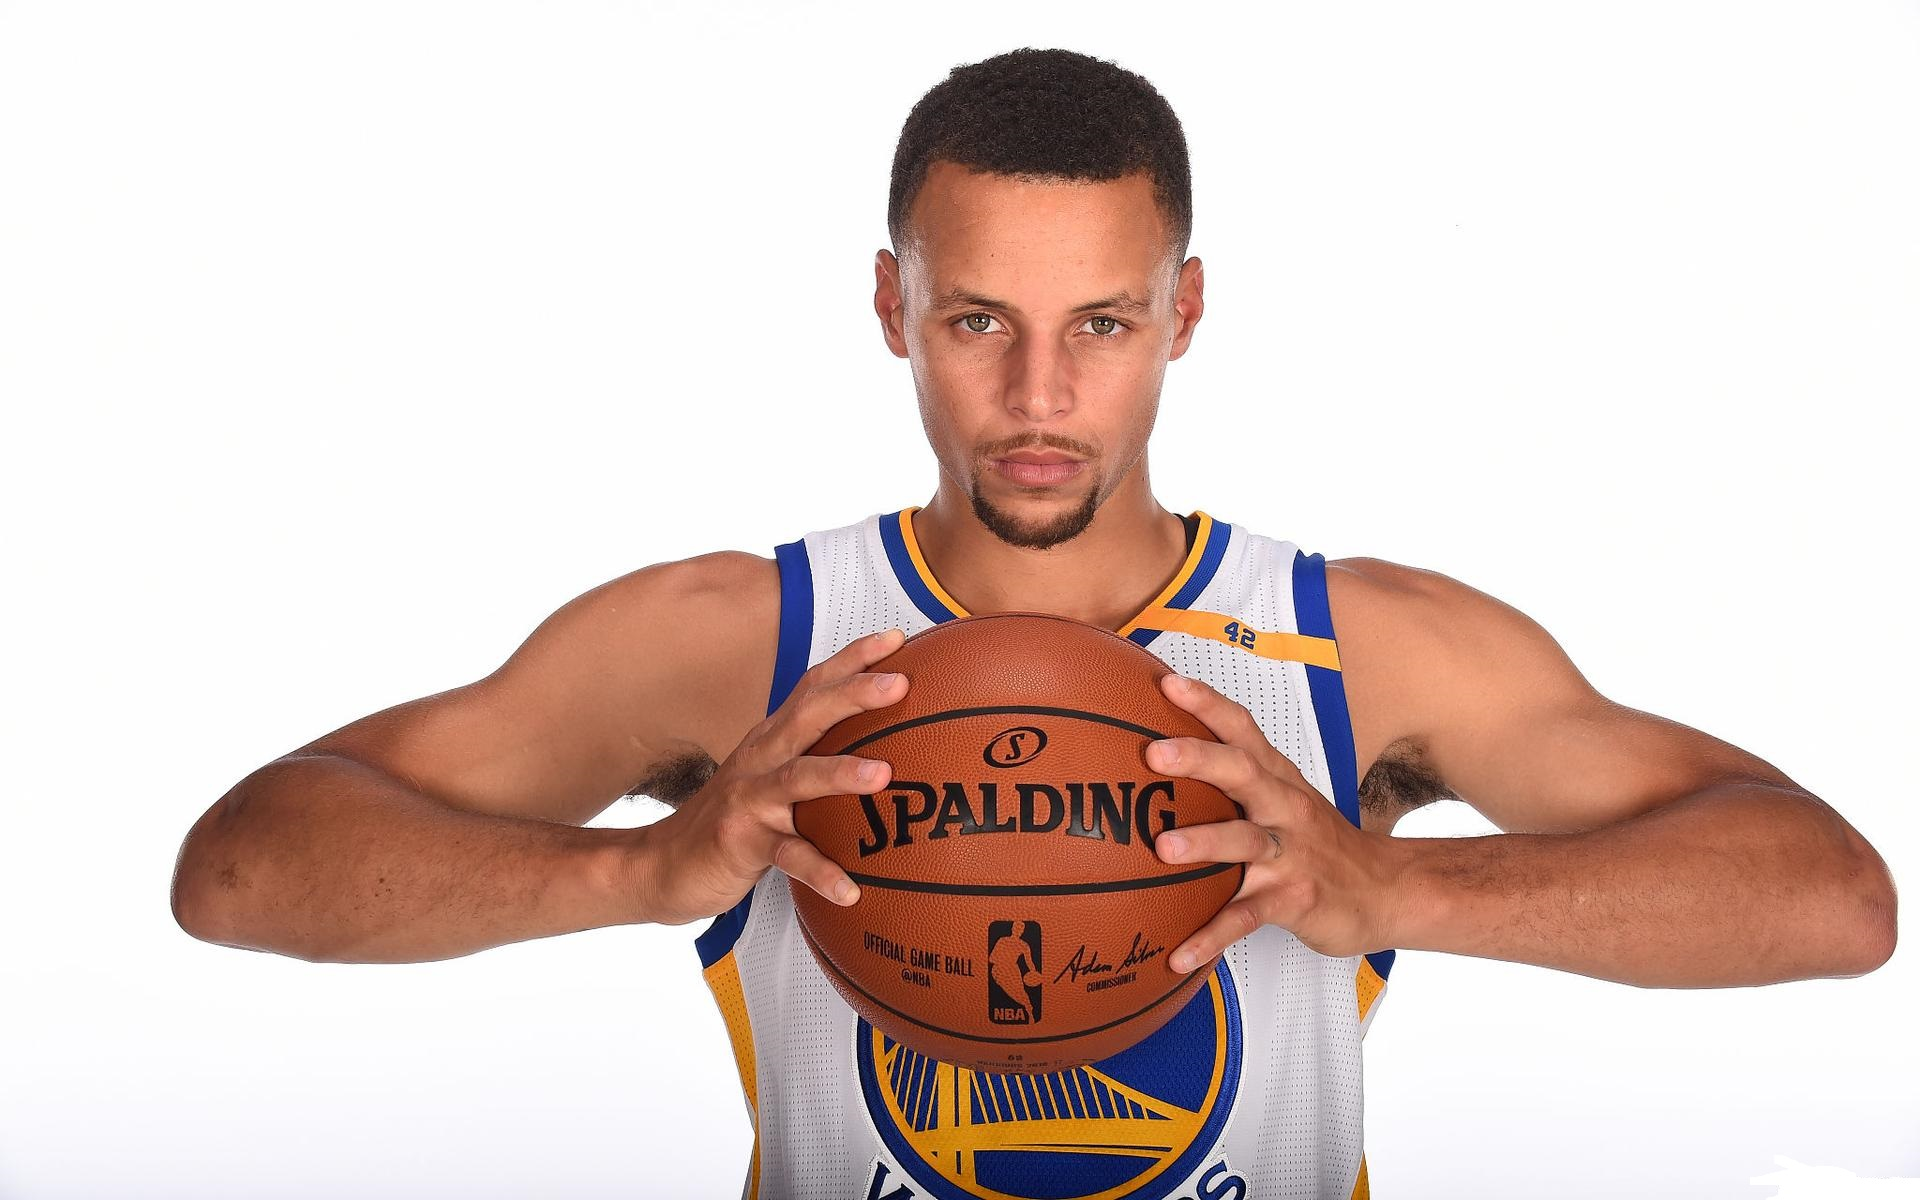
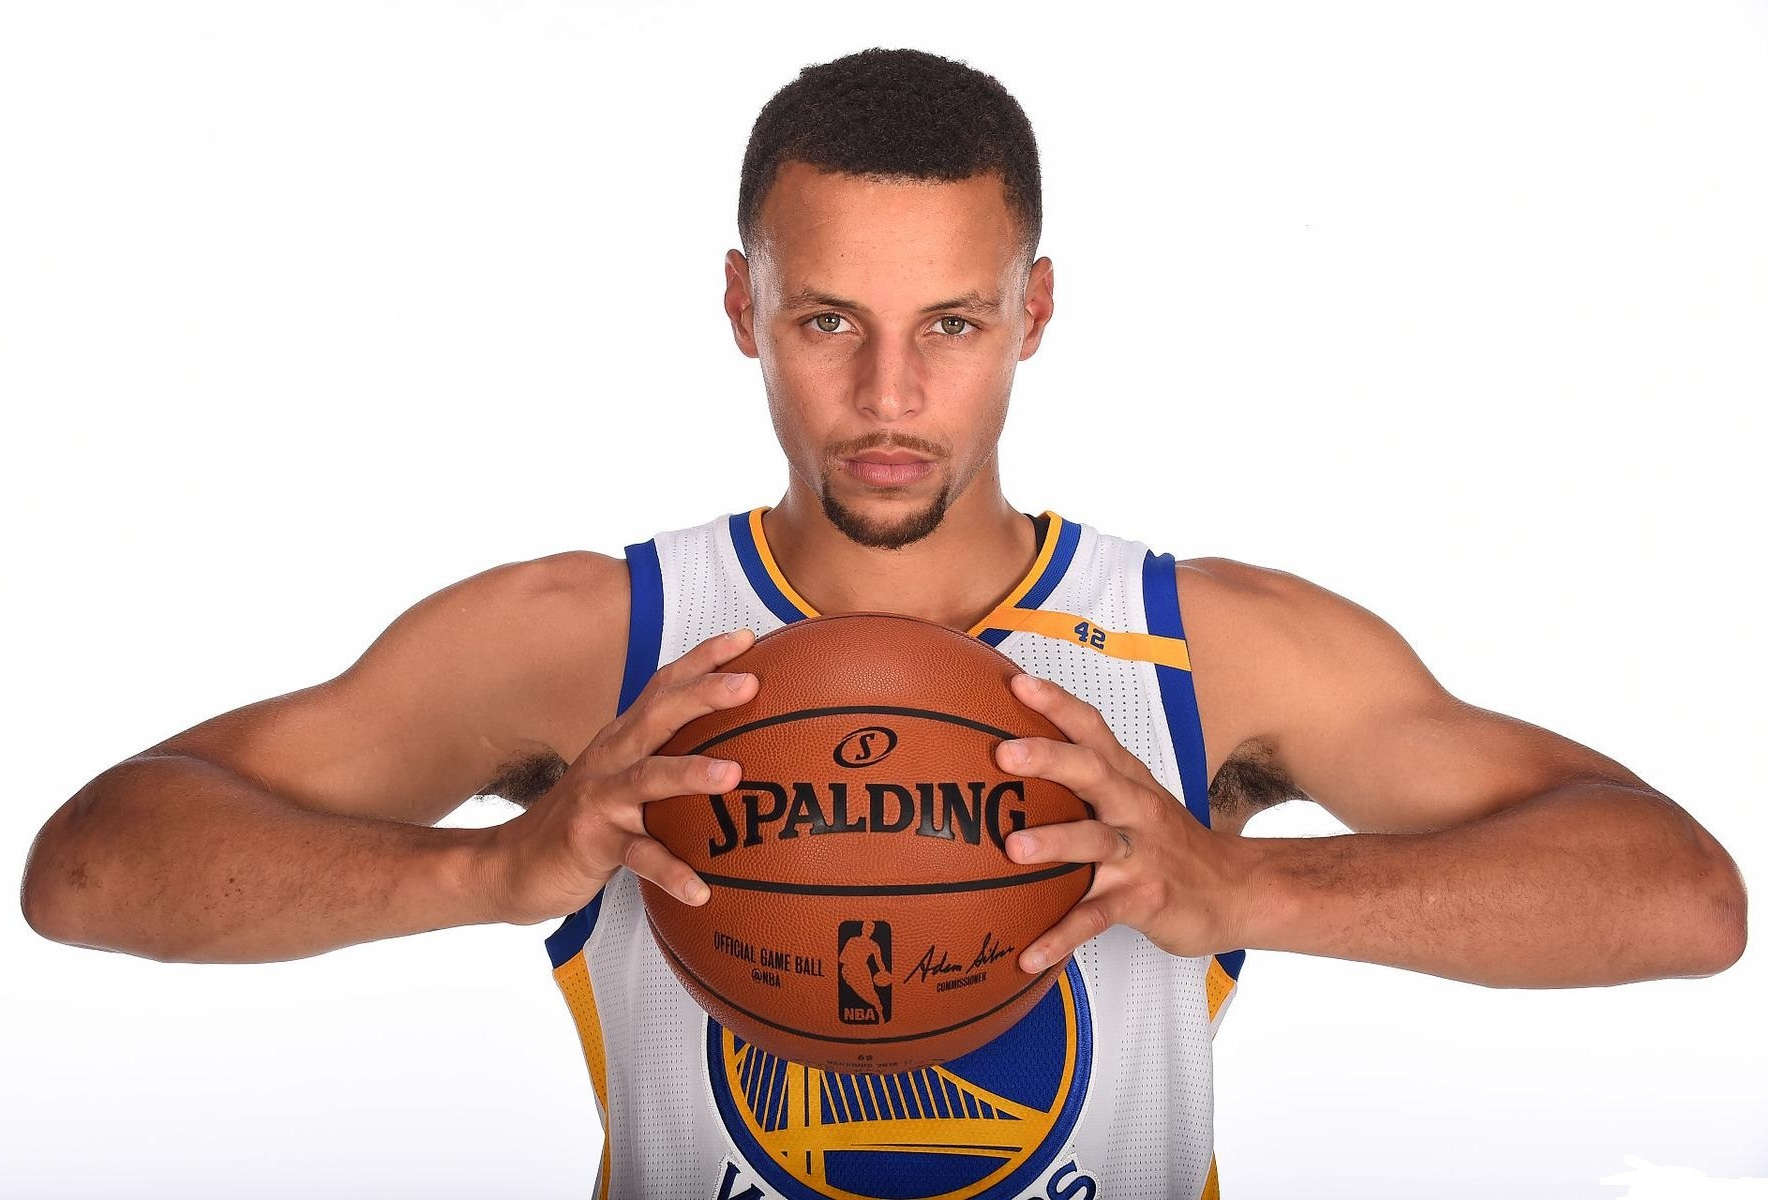
Centered image

Changed region(s): [[0.0, 0.0308, 0.9333, 1.0], [0.7777, 0.8017, 0.8399, 0.8325], [0.9333, 0.6475, 0.9644, 0.6783]]

diff --git a/src/Components/Hero.js b/src/Components/Hero.js
@@ -1,20 +1,16 @@
 import React from "react";
-import './Hero.css'
-import Steph from "../images/steph-curry.jpg"
-import DameTime from "../images/dame-time.jpg"
+import "./Hero.css";
+import Steph from "../images/steph-curry.jpg";
+import DameTime from "../images/dame-time.jpg";
 function Hero() {
   return (
     <>
-    <div className="title">
 
-
-
-      <img src={Steph} className="img-fluid"/>
-
-    </div>
-     <div></div>
-     </>
-  )
+        <img src={Steph} alt="background" className="img-fluid picture"/>
+        <h1 className="h1 header">COURT <br/> VISION</h1>
+     
+    </>
+  );
 }
 
 export default Hero;

diff --git a/src/Components/Hero.css b/src/Components/Hero.css
@@ -16,3 +16,29 @@
         font-size: 200px;
     }
 }
+
+.article {
+    height: 100%;
+    position: relative;
+    overflow: hidden;
+}
+
+.picture {
+    object-fit: cover;
+    width: 100%;
+    height: 100%;
+}
+
+
+.header {
+    font-size: 80px;
+    color: black;
+    text-align: center;
+    position: absolute;
+    top: 0;
+    bottom: 0;
+    left: 0;
+    right: 0;
+    height: fit-content;
+    margin: auto;
+}
